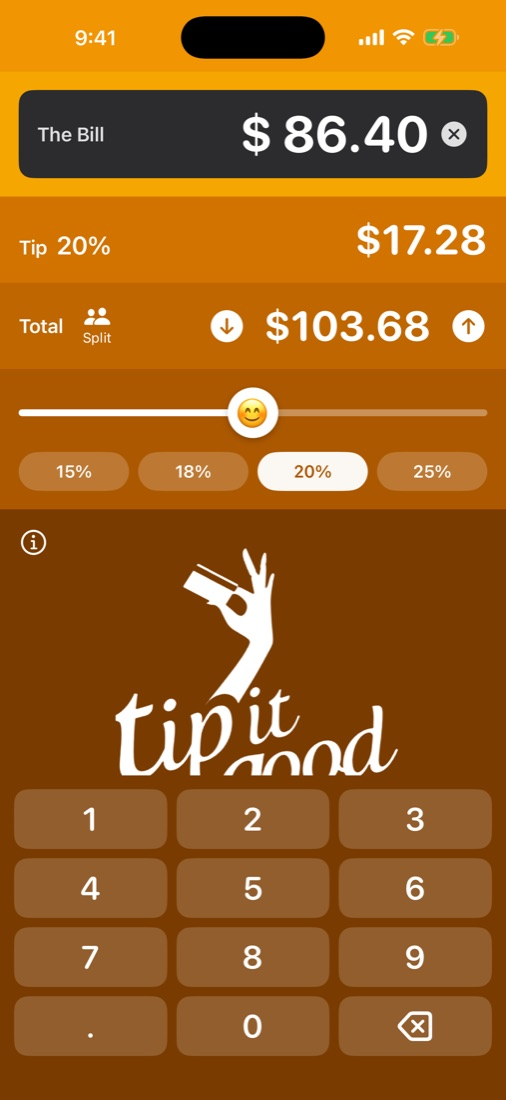
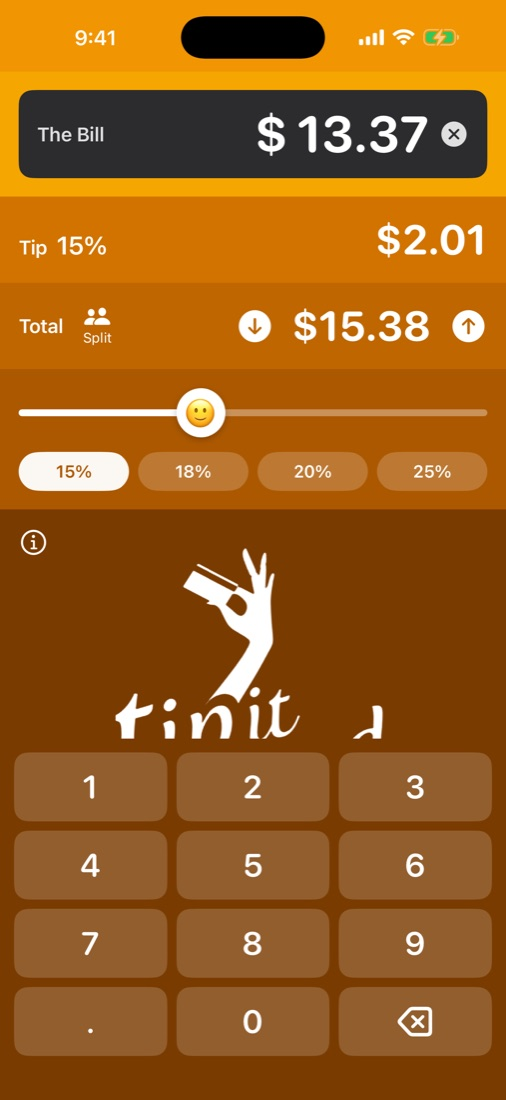
Add repeatable screenshot pipeline and 2.1 screenshot set
scripts/make-screenshots.sh builds the app, captures every App Store
screenshot from one shot list, and makes the 6.3-inch copies and the
website images. New sample bills: 13.37 at 15% (the v1 Easter egg),
42.00 split 2 ways, and 20.14 rounded to 25.00.

diff --git a/index.html b/index.html
@@ -60,9 +60,9 @@
 
   <section class="band shots" aria-label="Screenshots">
     <div class="wrap row">
-      <img src="img/1-main.jpg" alt="Bill of $86.40 with a 20% tip of $17.28 and a total of $103.68">
-      <img src="img/2-split.jpg" alt="Bill of $148.50 split four ways at $44.55 each">
-      <img src="img/3-round.jpg" alt="Total rounded up to an even $60.00">
+      <img src="img/1-main.jpg" alt="Bill of $13.37 with a 15% tip of $2.01 and a total of $15.38">
+      <img src="img/2-split.jpg" alt="Bill of $42.00 with a 20% tip, split two ways at $25.20 each">
+      <img src="img/3-round.jpg" alt="Bill of $20.14 with the total rounded up to an even $25.00">
     </div>
   </section>
 
